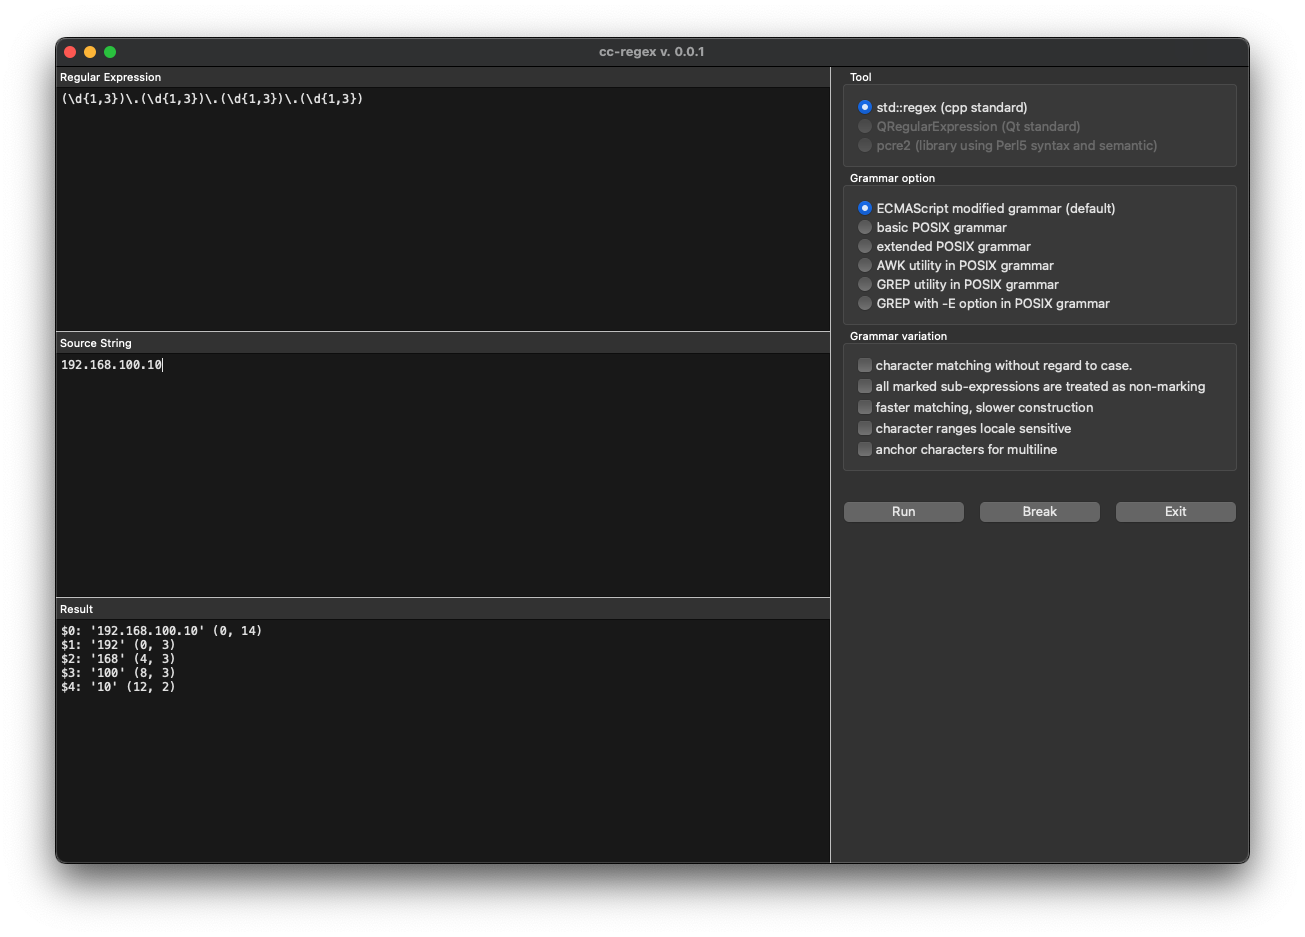
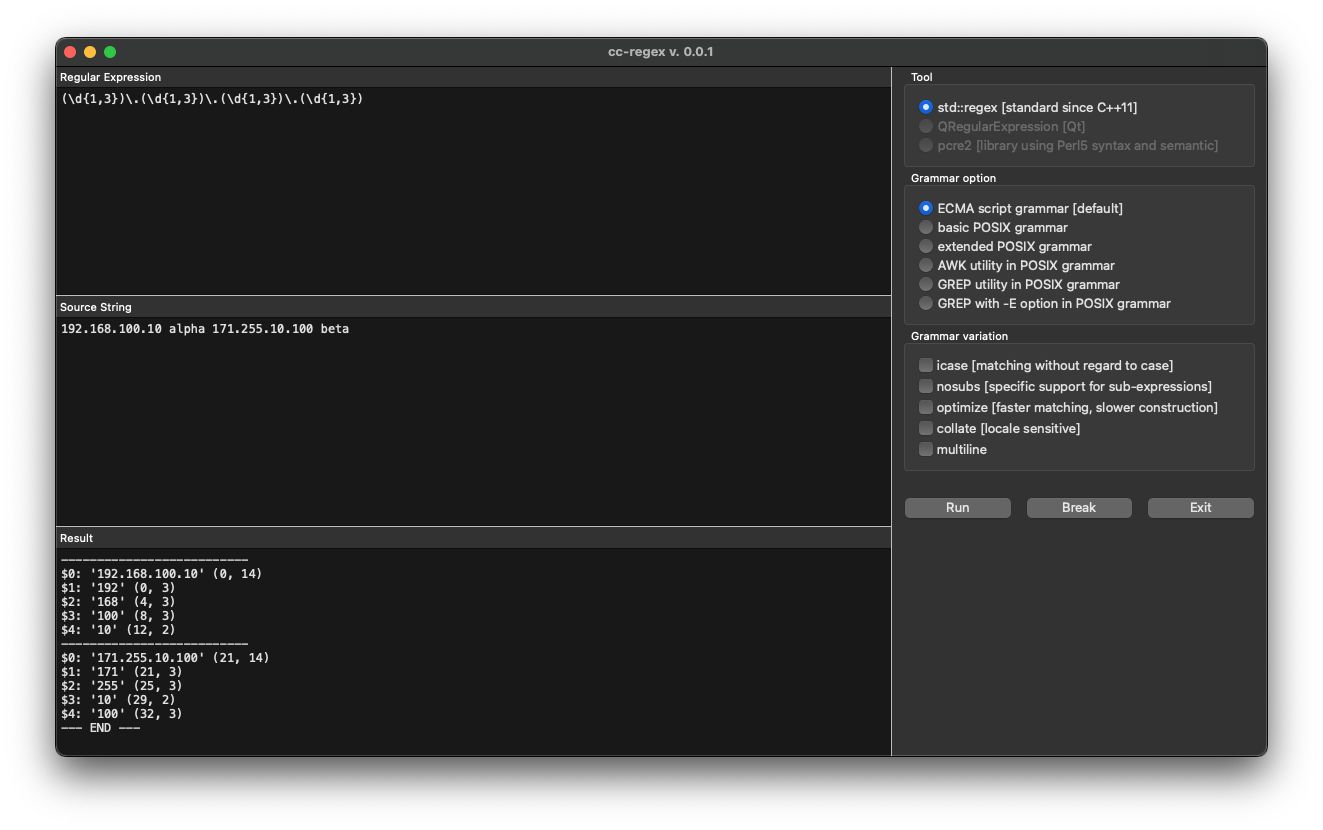
visual corrections

Changed region(s): [[0.0307, 0.0301, 0.9808, 0.9337]]

diff --git a/MainWindow.cc b/MainWindow.cc
@@ -67,6 +67,7 @@ qstr const MainWindow::MainWindowPosition = "MainWindow/Position";
 qstr const MainWindow::MainWindowState = "MainWindow/State";
 qstr const MainWindow::LastUsedDirectory = "LastUsed/Directory";
 qstr const MainWindow::LastUsedFile = "LastUsed/File";
+qstr const MainWindow::Error = "Error";
 
 MainWindow::MainWindow(QWidget* const parent) :
     QMainWindow(parent),
@@ -199,23 +200,30 @@ void MainWindow::std_regx(type::StdSyntaxOption grammar, std::vector<type::StdSy
 
     for (auto const& pattern : pattern_lines) {
         for (auto const& source : source_lines) {
-            std::regex rgx(pattern, opt);
-            auto match_begin_it = std::sregex_iterator(source.begin(), source.end(), rgx);
-            auto match_end_it = std::sregex_iterator();
-            for (auto it = match_begin_it; it != match_end_it; ++it) {
-                std::smatch match = *it;
-                EventController::instance().send_event(event::AppendLine, "--------------------------");
-                for (int i = 0; i < match.size(); ++i) {
-                    auto const str{fmt::format("${}: '{}' ({}, {})", i, match.str(i), match.position(i), match.length(i))};
-                    EventController::instance().send_event(event::AppendLine, qstr::fromStdString(str));
+            try {
+                std::regex rgx(pattern, opt);
+                auto match_begin_it = std::sregex_iterator(source.begin(), source.end(), rgx);
+                auto match_end_it = std::sregex_iterator();
+                for (auto it = match_begin_it; it != match_end_it; ++it) {
+                    std::smatch match = *it;
+                    EventController::instance().send_event(event::AppendLine, "--------------------------");
+                    for (int i = 0; i < match.size(); ++i) {
+                        auto const str{fmt::format("${}: '{}' ({}, {})", i, match.str(i), match.position(i), match.length(i))};
+                        EventController::instance().send_event(event::AppendLine, qstr::fromStdString(str));
+                    }
                 }
+            }
+            catch (std::regex_error const& e) {
+                auto msg = qstr::fromStdString(e.what());
+                QMessageBox::critical((QWidget *) this, Error, msg);
+                return;
             }
             EventController::instance().send_event(event::AppendLine, "--- END ---");
         }
     }
 }
 
-std::vector<std::string> MainWindow::transform(qstr const& str) const noexcept {
+std::vector<std::string> MainWindow::transform(qstr const& str) noexcept {
     std::vector<std::string> buffer;
     if (not str.isEmpty()) {
         auto data = str.split('\n');

diff --git a/OptionsWidget.cc b/OptionsWidget.cc
@@ -39,20 +39,20 @@
 
 OptionsWidget::OptionsWidget(QWidget* const parent) :
     QWidget(parent),
-    std_{new QRadioButton{"std::regex (cpp standard)"}},
-    qt_{new QRadioButton{"QRegularExpression (Qt standard)"}},
-    pcre2_{new QRadioButton{"pcre2 (library using Perl5 syntax and semantic)"}},
-    ecma_{ new QRadioButton{"ECMAScript modified grammar (default)"}},
+    std_{new QRadioButton{"std::regex [standard since C++11]"}},
+    qt_{new QRadioButton{"QRegularExpression [Qt]"}},
+    pcre2_{new QRadioButton{"pcre2 [library using Perl5 syntax and semantic]"}},
+    ecma_{ new QRadioButton{"ECMA script grammar [default]"}},
     basic_{new QRadioButton{"basic POSIX grammar"}},
     extended_{new QRadioButton{"extended POSIX grammar"}},
     awk_{new QRadioButton{"AWK utility in POSIX grammar"}},
     grep_{new QRadioButton{"GREP utility in POSIX grammar"}},
     egrep_{new QRadioButton{"GREP with -E option in POSIX grammar"}},
-    icace_{new QCheckBox{"character matching without regard to case."}},
-    nosubs_{new QCheckBox{"all marked sub-expressions are treated as non-marking "}},
-    optimize_{new QCheckBox{"faster matching, slower construction"}},
-    collate_{new QCheckBox{"character ranges locale sensitive"}},
-    multiline_{new QCheckBox{"anchor characters for multiline"}},
+    icace_{new QCheckBox{"icase [matching without regard to case]"}},
+    nosubs_{new QCheckBox{"nosubs [specific support for sub-expressions]"}},
+    optimize_{new QCheckBox{"optimize [faster matching, slower construction]"}},
+    collate_{new QCheckBox{"collate [locale sensitive]"}},
+    multiline_{new QCheckBox{"multiline"}},
     run_{new QPushButton{"Run"}},
     break_{new QPushButton{"Break"}},
     exit_{new QPushButton{"Exit"}}

diff --git a/MainWindow.h b/MainWindow.h
@@ -50,7 +50,7 @@ public:
     void closeEvent(QCloseEvent* event) override;
     void customEvent(QEvent* event) override;
     void std_regx(type::StdSyntaxOption grammar, std::vector<type::StdSyntaxOption> vars) const noexcept;
-    [[nodiscard]] std::vector<std::string> transform(qstr const& str) const noexcept;
+    [[nodiscard]] static std::vector<std::string> transform(qstr const& str) noexcept;
 
 private slots:
     void open() noexcept;
@@ -105,4 +105,5 @@ private:
     static qstr const MainWindowState;
     static qstr const LastUsedDirectory;
     static qstr const LastUsedFile;
+    static qstr const Error;
 };
